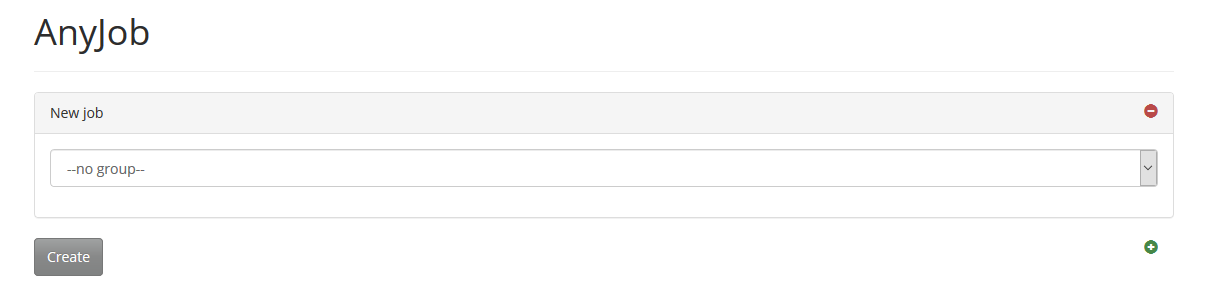
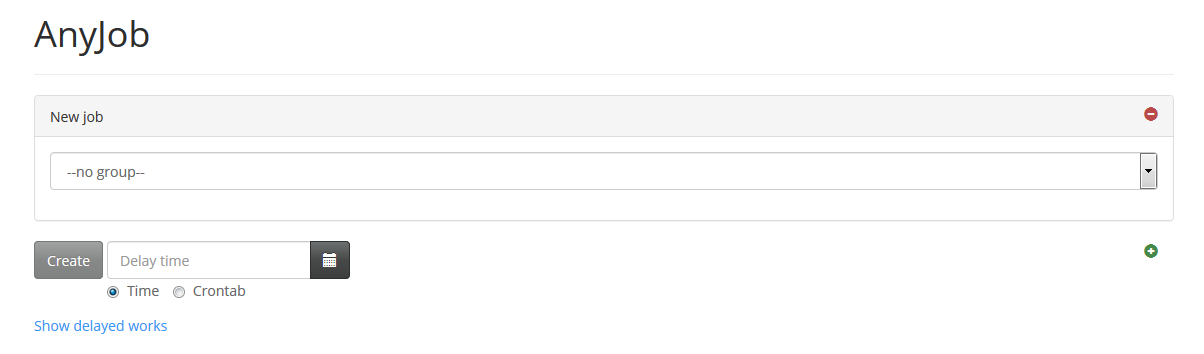
Add documentation for delayed works. Move on to the 'pre-beta' stage, update readme files and web application screenshots.

diff --git a/README.md b/README.md
@@ -2,12 +2,13 @@
 
 _This is russian version of README file. To read in english go to [README.en.md](README.en.md)._
 
-Система, позволяющая запускать произвольные задачи на разных узлах linux и отслеживать
-их выполнение. На данном этапе находится в режиме *альфа-тестирования*, и использовать в продакшне ее пока
-нельзя.
+Система, позволяющая запускать произвольные задачи на некотором множестве узлов linux и отслеживать
+их выполнение. На данном этапе находится в состоянии *пре-бета* и уже довольно долгое время используется
+в продакшне, так что можно считать проект относительно зрелым.
 
 AnyJob может применяться как для упрощения автоматизации внутри вашего распределенного проекта, так и для
-возможности быстро производить какие-либо действия или получать самую разную информацию из единой отправной точки.
+возможности быстро производить какие-либо административные действия или получать самую разную информацию из единой
+отправной точки.
 
 В качестве хранилища данных, а также средства коммуникации между различными частями системы,
 используется *redis*.
@@ -25,11 +26,13 @@ AnyJob может применяться как для упрощения авт
 
 - Как можно более простое добавление и развертывание новых задач.
 
-- Максимальная гибкость в запуске и выполнении задач, возможность создавать набор
-взаимосвязанных задач, которые бы "знали" друг о друге и действовали координированно.
+- Максимальная гибкость в выполнении задач, возможность создавать набор взаимосвязанных задач, которые бы
+"знали" друг о друге и действовали координированно.
 
 - Максимальная гибкость в отслеживании выполнения задач, произвольное количество способов оповещений
 об этом выполнении.
+
+- Максимально простой запуск задач с получением некоторого результата, используя несколько разных способов.
 
 ### Основные принципы и понятия
 
@@ -62,7 +65,6 @@ AnyJob может применяться как для упрощения авт
 (private)*.
 
 **Строитель (builder)** - внутренний компонент создателя, используемый для построения задачи за несколько шагов.
-В данный момент используется только приложением slack.
 
 **Демон (daemon)** - обособленный компонент, который является сердцем системы, и внутри него работают
 один или несколько контроллеров (*controller*). Демон запускается на всех узлах с помощью bash-скрипта
@@ -128,8 +130,9 @@ AnyJob может применяться как для упрощения авт
 - сконфигурировать AnyJob на каждом узле. Подробности читайте в [doc/config.txt](doc/config.txt) и
 других смежных файлах.
 
-- для создания задач можно использовать как консольную утилиту *bin/anyjobc.pl*, так и обособленное
-веб-приложение. Внутри веб-приложения также доступно и приложение для slack (https://slack.com/).
+- для создания задач и управления отложенными работами можно использовать как консольную утилиту
+*bin/anyjobc.pl*, так и обособленное веб-приложение. Внутри веб-приложения также доступно и приложение
+для slack (https://slack.com/).
 
 - для понимания того, как все работает, крайне рекомендуется изучить документацию (на английском языке)
 из директории *doc*.
@@ -142,6 +145,7 @@ AnyJob может применяться как для упрощения авт
    - [doc/opts.txt](doc/opts.txt) - опции (*options*) операций с отложенными работами.
    - [doc/redis.txt](doc/redis.txt) - используемые ключи *redis*.
    - [doc/semaphore.txt](doc/semaphore.txt) - семафоры.
+   - [doc/delay.txt](doc/delay.txt) - отложенные работы.
 
 Если вы планируете расширять систему, то рекомендуется изучить код и комментарии к нему. Для понимания того как
 правильно писать новые модули задач, следует изучить хотя бы *AnyJob::Worker::Job::Base* и
@@ -166,6 +170,14 @@ AnyJob может применяться как для упрощения авт
 
 ![Screenshot](img/screenshot4.png)
 
+**Отложенные работы:**
+
+![Screenshot](img/screenshot5.png)
+
+**Изменение отложенной работы:**
+
+![Screenshot](img/screenshot6.png)
+
 ### Ограничения и планы на дальнейшее развитие
 
 1. Полная поддержка выполнения задач сейчас реализована только в среде *perl*. Для возможных других платформ
@@ -180,24 +192,21 @@ AnyJob может применяться как для упрощения авт
 создать задачу 'restart_all', которая вызовет создание набора задач 'restart' на всех узлах, возможно
 с еще какими-то дополнительными задачами.
 
-4. Сейчас при создании задачи она сразу же отправляется на выполнение. Было бы неплохо реализовать
-отложенный запуск задач.
-
-5. Сейчас как для хранилища данных, так и для очередей сообщений используется *redis*. И хотя он неплохо
+4. Сейчас как для хранилища данных, так и для очередей сообщений используется *redis*. И хотя он неплохо
 справляется, стоит абстрагироваться от него с помощью отдельных модулей, чтобы в будущем упростить переход
 на какие-либо другие механизмы для этого.
 
-6. Стоит реализовать ряд модулей-рабочих общего пользования 'из коробки'. Например, такой, который
+5. Стоит реализовать ряд модулей-рабочих общего пользования 'из коробки'. Например, такой, который
 выполнял бы произвольную программу и перехватывал ее ввод-вывод. Или запускал бы определенный метод
 в каком-либо модуле perl с определенными параметрами и т.п.
 
-7. Все сообщения, отображаемые приложениями, сейчас только на английском языке. Неплохо бы сделать
+6. Все сообщения, отображаемые приложениями, сейчас только на английском языке. Неплохо бы сделать
 интернационализацию, чтобы были переводы всех фраз, и была возможность переключаться между разными языками
 (в первую очередь, между английским и русским, конечно же).
 
-8. Сейчас приложение slack требует явного указания типа задачи и списка узлов в тексте команды. Стоит добавить
+7. Сейчас приложение slack требует явного указания типа задачи и списка узлов в тексте команды. Стоит добавить
 возможность указывать группу, тип задачи и список узлов с помощью диалогов (правда, придется их показывать несколько
 по очереди).
 
-9. В веб-приложение стоит добавить поддержку ссылок, которые бы вели на частично созданную задачу, чтобы упростить
+8. В веб-приложение стоит добавить поддержку ссылок, которые бы вели на частично созданную задачу, чтобы упростить
 их создание.

diff --git a/README.en.md b/README.en.md
@@ -1,10 +1,11 @@
 # AnyJob
 
-Program system used to run arbitrary jobs on different linux nodes and observe how they run.
-By now it is on alpha testing stage, and you should not use it in production.
+Program system used to execute arbitrary jobs on some set of linux nodes and observe how they run.
+By now it is in pre-beta stage and was used in production for already quite a long time, so project
+can be considered relatively solid.
 
 AnyJob can be used to simplify automation inside your distributed project or to quickly perform some
-frequent tasks and request information from the single entry point.
+frequent administrative tasks and request information from the single entry point.
 
 For data storage and communication between different system parts *redis* server is used.
 
@@ -20,10 +21,12 @@ The following goals were pursued during system development:
 
 - Adding and deployment of new jobs should be as simple as possible.
 
-- Maximal flexibility of job starting and executioning, ability to create set of interrelated jobs which will know
+- Maximal flexibility of job executioning, ability to create set of interrelated jobs which will know
 about each other and act in a coordinated manner.
 
 - Maximal flexibility of observing how jobs are run, arbitrary ways to notify end users about it.
+
+- Maximal simplicity of job starting and receiving some result using several methods.
 
 ### Basic principles and concept
 
@@ -49,8 +52,7 @@ In addition to actual creating creator supports another interesting feature: obs
 individual observers creator observes just the jobs it created and can send notifications directly to users who
 created them. That embedded into creator observer is called *private* observer.
 
-**Builder** is a inner component of creator which is used to build jobs in several steps. By now it is used only by slack
-application.
+**Builder** is a inner component of creator which is used to build jobs in several steps.
 
 **Daemon** is a separate component which is a heart of the system, and there are one or more controllers which are run
 inside. Daemon is started on each node by bash script 'rc.anyjobd'. There should be *global* controller on one
@@ -108,8 +110,8 @@ classes (*AnyJob::Worker::Job::Base* and *AnyJob::Worker::Context::Base*) are av
 
 - configure AnyJob on each node. Read [doc/config.txt](doc/config.txt) and other documentation files for details.
 
-- to create jobs you can use console utility *bin/anyjobc.pl* or separate web application. Slack application
-(https://slack.com) is also available as part of that web application.
+- to create jobs and manage delayed works you can use console utility *bin/anyjobc.pl* or separate web application.
+Slack application (https://slack.com) is also available as part of that web application.
 
 - to understand how all works it is extremely recommended to read all documentation from the *doc* directory.
    - [doc/install.txt](doc/install.txt) - prerequisites and installation steps.
@@ -121,6 +123,7 @@ classes (*AnyJob::Worker::Job::Base* and *AnyJob::Worker::Context::Base*) are av
    - [doc/opts.txt](doc/opts.txt) - options of delay operations.
    - [doc/redis.txt](doc/redis.txt) - keys used in *redis*.
    - [doc/semaphore.txt](doc/semaphore.txt) - semaphores.
+   - [doc/delay.txt](doc/delay.txt) - delayed works.
 
 If you plan to extend AnyJob, it is recommended to study code and comments. At least you should examine
 *AnyJob::Worker::Job::Base* and *AnyJob::Worker::Job::Example* to understand how to correctly write new job modules.
@@ -144,6 +147,14 @@ And *AnyJob::Worker::Context::Base* too if you suppose to run jobs inside worker
 
 ![Screenshot](img/screenshot4.png)
 
+**Delayed works:**
+
+![Screenshot](img/screenshot5.png)
+
+**Delayed work update:**
+
+![Screenshot](img/screenshot6.png)
+
 ### Limitations and further development plans
 
 1. Full job support is implemented only for *perl* environment. For all other platforms writing specific
@@ -157,20 +168,18 @@ specify some abstract type and parameters which will be transformed by creator i
 For example one could create 'restart_all' job which will transform into 'restart' job on every node, possibly with
 some additional jobs.
 
-4. Jobs are now launched right after creation, but it would be nice to have delayed job starting.
-
-5. *Redis* is now used both for data storage and for message queuing. It performs good, but it would be better to
+4. *Redis* is now used both for data storage and for message queuing. It performs good, but it would be better to
 abstract away by using some specific modules to simplify transition to some other mechanisms in future.
 
-6. It is worth implementing some common use worker modules 'out of the box'. For example such that would execute
+5. It is worth implementing some common use worker modules 'out of the box'. For example such that would execute
 some arbitrary program and intercept its input and output, or run specific method in some perl module with defined
 parameters, etc.
 
-7. All messages displayed by applications are only in english now. It would be nice to implement internationalization,
+6. All messages displayed by applications are only in english now. It would be nice to implement internationalization,
 add translations for all messages and possibility to switch between languages (russian is priority of course).
 
-8. By now slack application demands explicit notation of job type and nodes list in slash command text. It is worth
+7. By now slack application demands explicit notation of job type and nodes list in slash command text. It is worth
 adding possibility to specify group, type and nodes using separate dialogs.
 
-9. It is worth to add support for links leading to partially created jobs in the web application to simplify job
+8. It is worth to add support for links leading to partially created jobs in the web application to simplify job
 creation.
